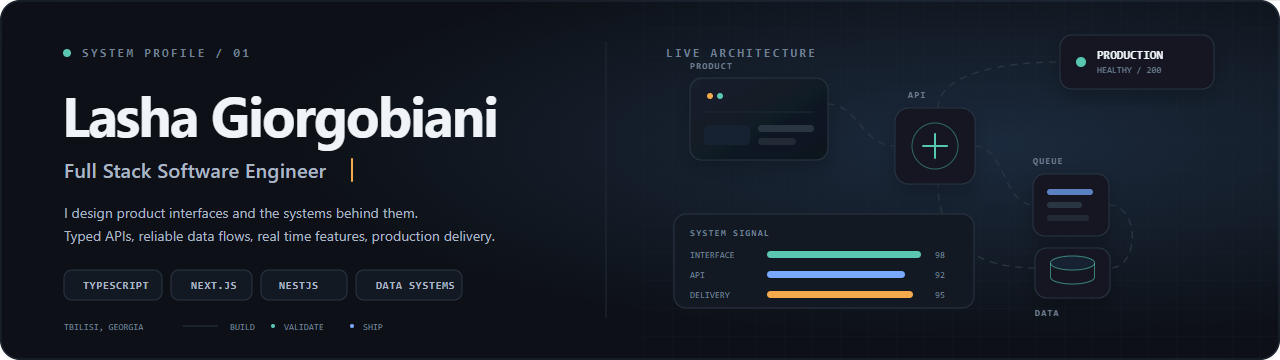
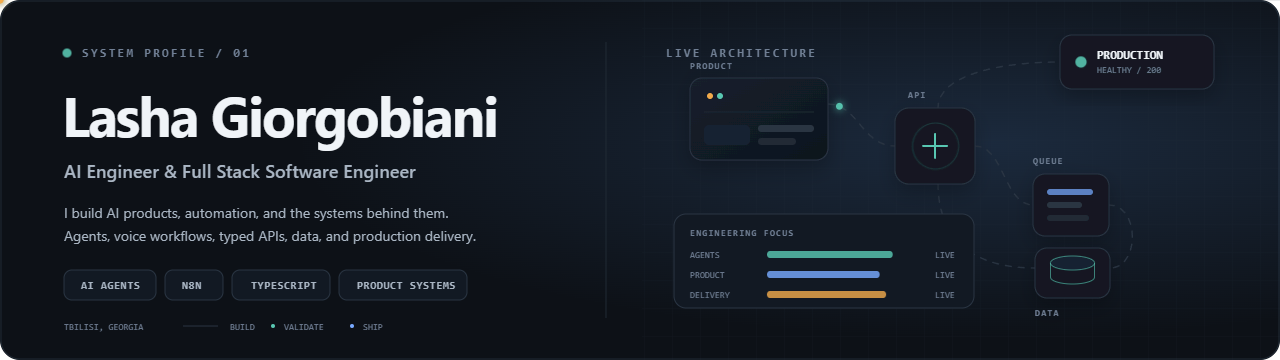
Showcase AI products and engineering stack

diff --git a/README.md b/README.md
@@ -1,63 +1,83 @@
 <p align="center">
   <picture>
     <source srcset="./assets/system-pulse.svg" type="image/svg+xml" />
-    <img src="./assets/system-pulse-fallback.png" alt="Lasha Giorgobiani, Full Stack Software Engineer" width="100%" />
+    <img src="./assets/system-pulse-fallback.png" alt="Lasha Giorgobiani, AI Engineer and Full Stack Software Engineer" width="100%" />
   </picture>
 </p>
 
 <p align="center">
-  I build complete product systems, from precise interfaces to typed APIs, data flows, background processing, and production delivery.
+  I build AI products, intelligent automation, and complete production systems from interface to infrastructure.
 </p>
 
 <p align="center">
-  <a href="https://github.com/Giorgobiani2002?tab=repositories">Explore projects</a>
+  <a href="https://declario.ge">declario.ge</a>
   &nbsp;&middot;&nbsp;
-  <a href="https://github.com/Meama-DEV">MEAMA Development</a>
+  <a href="https://agentai.ge">agentai.ge</a>
+  &nbsp;&middot;&nbsp;
+  <a href="https://myjavshani.ge">myjavshani.ge</a>
   &nbsp;&middot;&nbsp;
   Tbilisi, Georgia
 </p>
 
-## Selected systems
+## Products
 
-### [Pulse AI Sports Intelligence](https://github.com/Giorgobiani2002/AI-SPORT-intelligence)
+### [declario.ge](https://declario.ge)
 
-A production oriented monorepo combining a bilingual product interface, API, workers, real time match rooms, deterministic scoring, and structured AI analysis.
+<a href="https://declario.ge">
+  <img src="./assets/products/declario.png" alt="Declario AI accounting automation platform" width="100%" />
+</a>
 
-`Next.js` &nbsp; `NestJS` &nbsp; `MongoDB` &nbsp; `Redis` &nbsp; `BullMQ` &nbsp; `Socket.IO`
+AI accounting automation for RS.ge workflows, declarations, waybills, and live operational control.
 
-### [MEAMA Vacancy Platform](https://github.com/Meama-DEV/meama-vacansy)
+### [agentai.ge](https://agentai.ge)
 
-A recruitment workflow with applicant intake, secure asset upload and download, admin operations, CSV export, automated tests, and Railway deployment.
+<a href="https://agentai.ge">
+  <img src="./assets/products/agentai.png" alt="AgentAI lead generation and AI agent platform" width="100%" />
+</a>
 
-`Next.js` &nbsp; `React` &nbsp; `TypeScript` &nbsp; `PostgreSQL` &nbsp; `Vitest`
+A configurable AI workforce for lead discovery, voice calls, social messaging, pipeline automation, and routine operations.
 
-### [Next.js Authentication Foundation](https://github.com/Giorgobiani2002/reauthnext)
+### [myjavshani.ge](https://myjavshani.ge)
 
-Authentication and account flows backed by typed forms, schema validation, serverless PostgreSQL, and transactional email.
+<a href="https://myjavshani.ge">
+  <img src="./assets/products/book-easy.png" alt="Book Easy online booking platform by MyJavshani" width="100%" />
+</a>
 
-`Next.js` &nbsp; `NextAuth` &nbsp; `Drizzle` &nbsp; `Neon` &nbsp; `Zod`
+An online booking platform that connects customers with restaurants, salons, clinics, and service businesses.
 
-### [Luma Backend](https://github.com/Giorgobiani2002/luma-back)
+## AI and automation
 
-A modular backend service with database persistence, object storage, presigned file access, email delivery, and administration tooling.
-
-`NestJS` &nbsp; `MongoDB` &nbsp; `AWS S3` &nbsp; `Jest`
+<p align="center">
+  <img src="./assets/skills/ai-agents.svg" alt="AI Agents" />
+  <img src="./assets/skills/openai.svg" alt="OpenAI" />
+  <img src="./assets/skills/n8n.svg" alt="n8n" />
+  <img src="./assets/skills/rag.svg" alt="Retrieval augmented generation" />
+  <img src="./assets/skills/voice-ai.svg" alt="Voice AI" />
+  <img src="./assets/skills/workflow-automation.svg" alt="Workflow automation" />
+</p>
 
 ## Engineering stack
 
 <p align="center">
-  <code>TypeScript</code>&nbsp;&nbsp;
-  <code>React</code>&nbsp;&nbsp;
-  <code>Next.js</code>&nbsp;&nbsp;
-  <code>Node.js</code>&nbsp;&nbsp;
-  <code>NestJS</code>&nbsp;&nbsp;
-  <code>PostgreSQL</code>&nbsp;&nbsp;
-  <code>MongoDB</code>&nbsp;&nbsp;
-  <code>Redis</code>&nbsp;&nbsp;
-  <code>Docker</code>&nbsp;&nbsp;
-  <code>Railway</code>
+  <img src="./assets/skills/product-engineering.svg" alt="Product engineering technologies" />
 </p>
 
 <p align="center">
-  <sub>Focused on reliable product engineering, clear system boundaries, and software that survives production.</sub>
+  <img src="./assets/skills/infrastructure.svg" alt="Data, infrastructure, and engineering tools" />
+</p>
+
+<p align="center">
+  AI agents &nbsp;&middot;&nbsp; RAG &nbsp;&middot;&nbsp; voice automation &nbsp;&middot;&nbsp; REST APIs &nbsp;&middot;&nbsp; WebSockets &nbsp;&middot;&nbsp; background jobs &nbsp;&middot;&nbsp; live systems &nbsp;&middot;&nbsp; CI/CD
+</p>
+
+## GitHub activity
+
+<p align="center">
+  <a href="https://github.com/Giorgobiani2002">
+    <img height="190" src="https://streak-stats.demolab.com?user=Giorgobiani2002&amp;hide_border=true&amp;background=0D1117&amp;stroke=283340&amp;ring=59C7B2&amp;fire=F2AA4C&amp;currStreakNum=F0F4F8&amp;sideNums=F0F4F8&amp;currStreakLabel=59C7B2&amp;sideLabels=AAB6C4&amp;dates=718095" alt="Lasha Giorgobiani GitHub contribution streak" />
+  </a>
+</p>
+
+<p align="center">
+  <sub>Streaks represent consecutive days with GitHub contributions, including commits, pull requests, and issues.</sub>
 </p>
